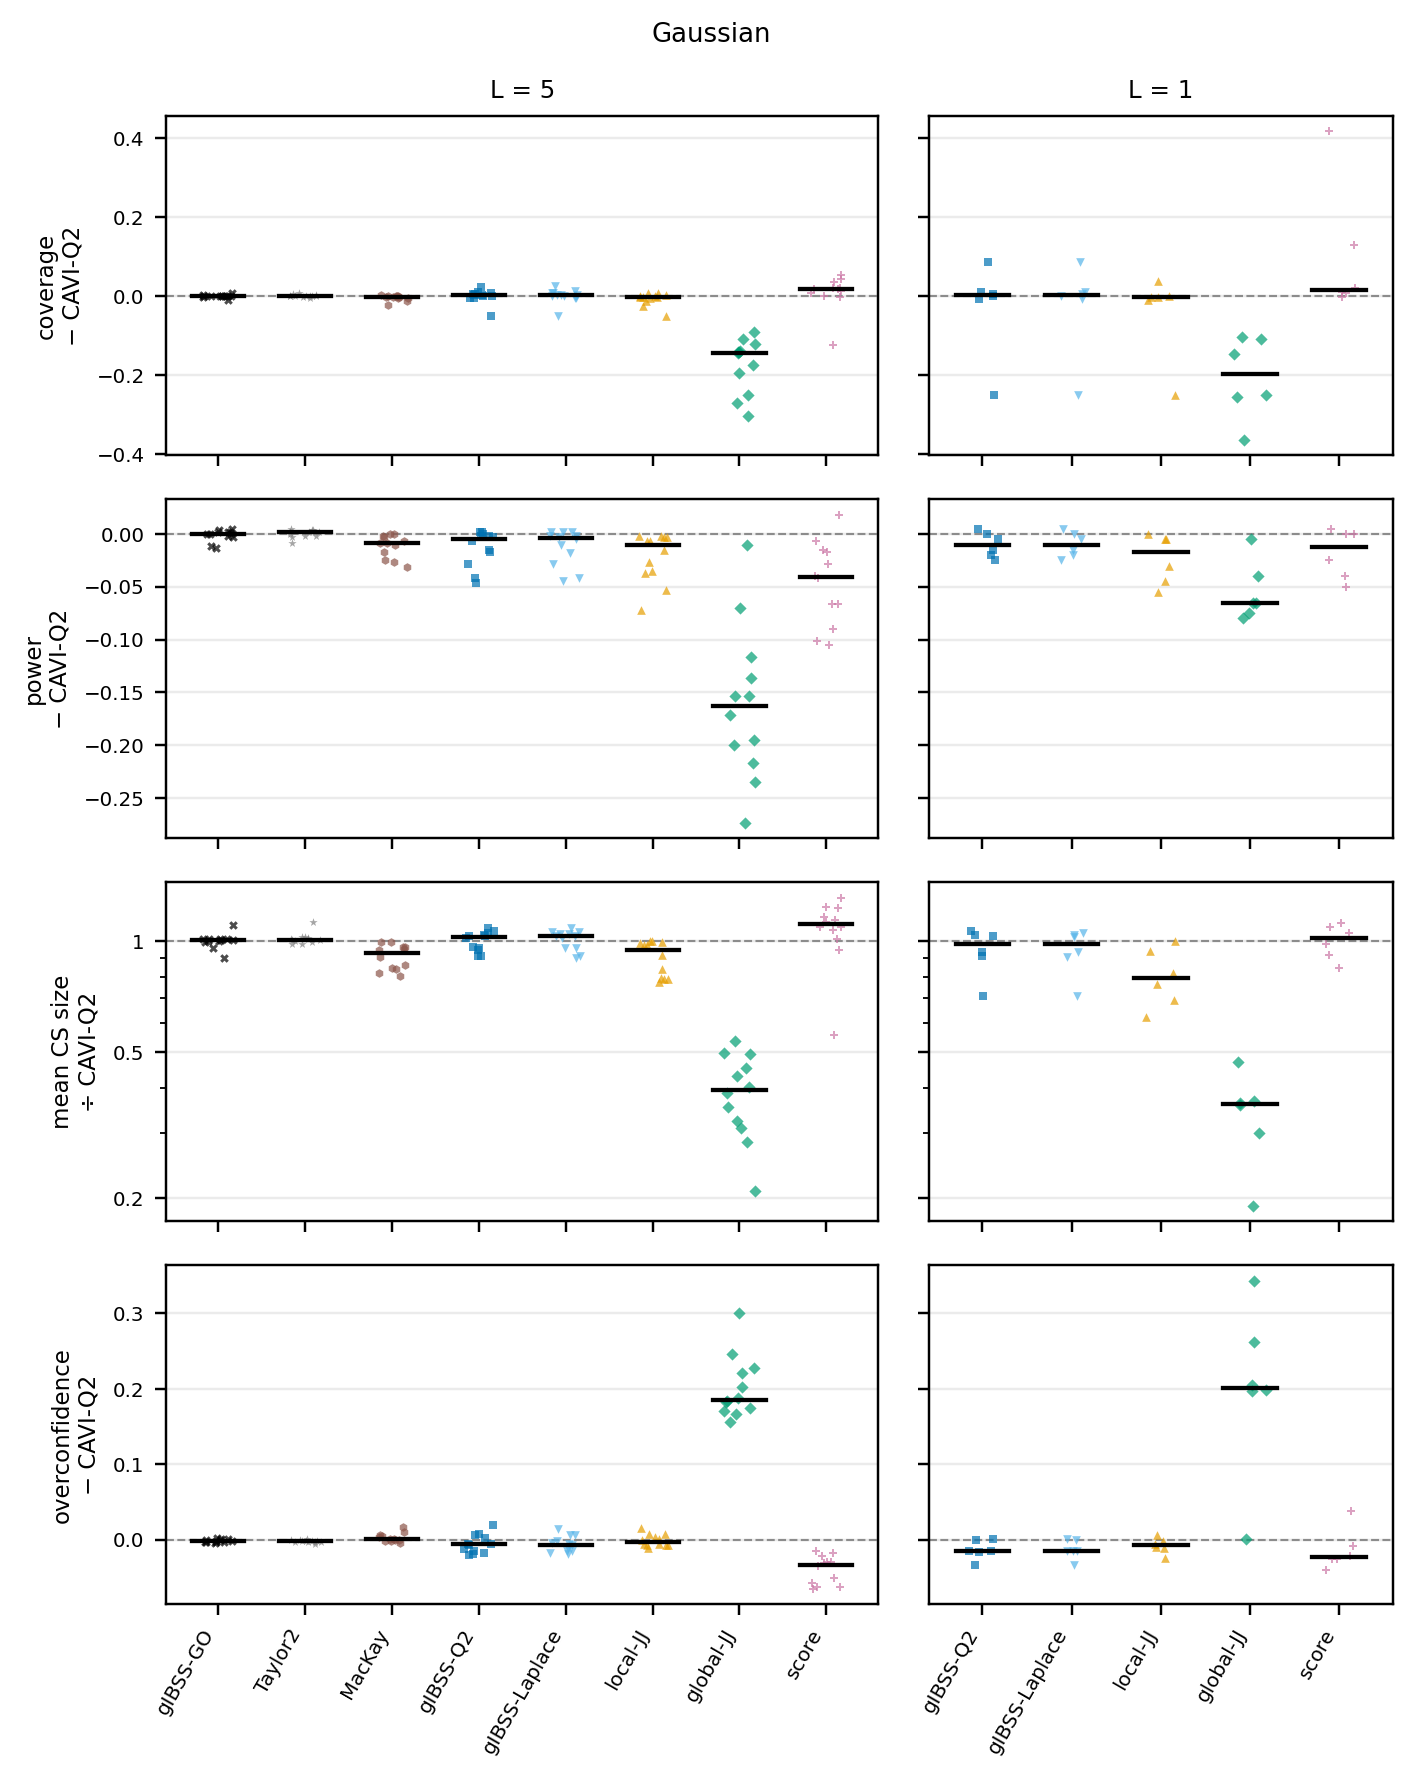
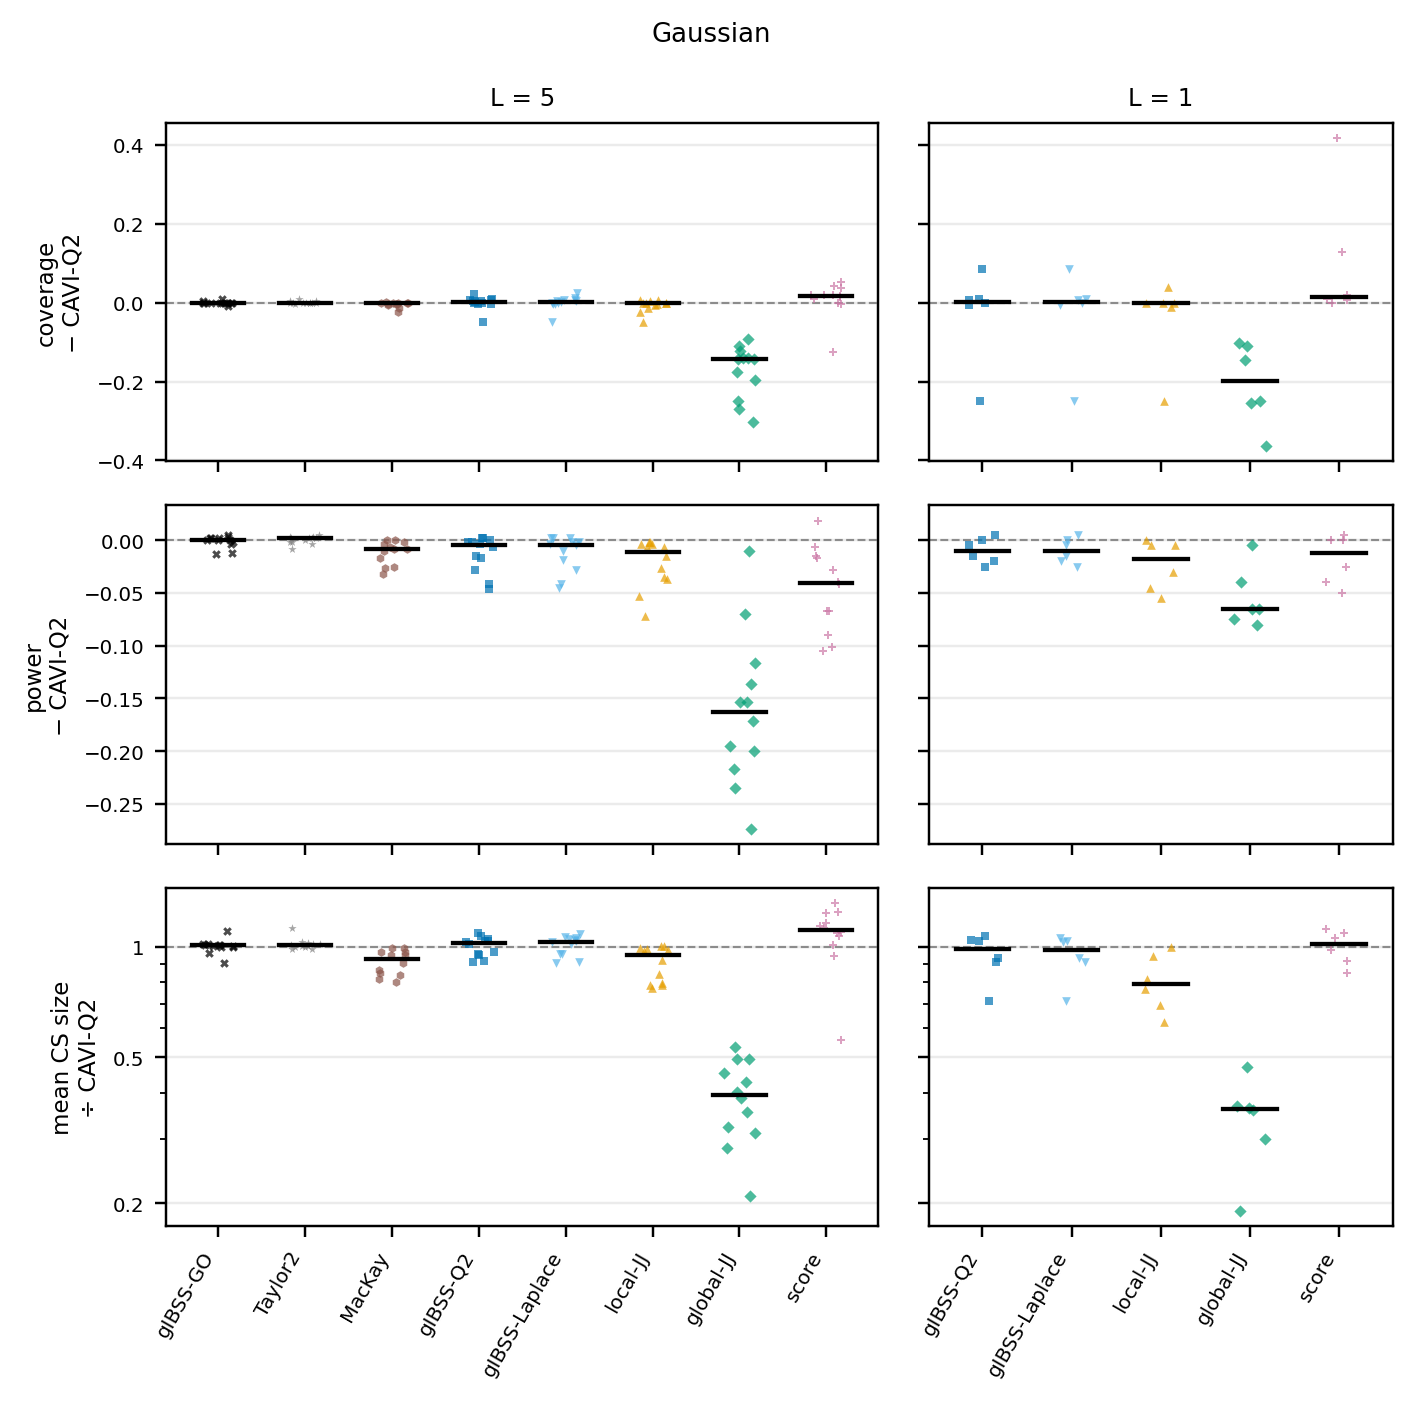
feat(twogroup): truth.qmd - CAVI comparison on CS metrics only
Drop the PIP-based overconfidence row; the per-scenario comparison is CS coverage,
power and size.

diff --git a/twogroup_experiments/analysis/logistic_laplace_simulations/truth.py b/twogroup_experiments/analysis/logistic_laplace_simulations/truth.py
@@ -363,42 +363,28 @@ def _boot(num: np.ndarray, den: np.ndarray | None, n_boot: int = 1000, seed: int
 _SCEN = ["exp", "design", "L"] + [c for c in CELL if c != "null"]
 
 
-def scenario_frame(bins: pl.DataFrame, reps: pl.DataFrame, lo: float = 0.5) -> pl.DataFrame:
-    """One row per (signal scenario, arm): coverage, power and mean size of declared 95% CSs,
-    overconfidence = mean PIP minus share causal among features with PIP >= lo, and each as a
-    difference from CAVI-Q2 in the same scenario (size as a ratio). A scenario is one cell of the
-    grid (design, L, sweep value, T, gap); every arm sees the same simulated replicates."""
-    r = (reps.filter(~pl.col("null")).group_by(_SCEN + ["method"])
-         .agg((pl.col("n_covering").sum() / pl.col("n_declared").sum()).alias("coverage"),
-              (pl.col("n_captured").sum() / pl.col("n_causal").sum()).alias("power"),
-              (pl.col("size_sum").sum() / pl.col("n_declared").sum()).alias("size")))
-    k = int(round(lo * NBIN))
-    mids = (np.arange(NBIN) + 0.5) / NBIN
-    rows = []
-    for key, g in bins.filter(~pl.col("null")).group_by(_SCEN + ["method"]):   # one bins row per batch
-        cnt = np.array(g["counts"].to_list(), dtype=float).sum(0)[k:]
-        cau = np.array(g["causal"].to_list(), dtype=float).sum(0)[k:]
-        n = cnt.sum()
-        rows.append(dict(zip(_SCEN + ["method"], key)) |
-                    {"overconf": float((cnt * mids[k:]).sum() / n - cau.sum() / n) if n else None,
-                     "n_hi": n})
-    df = r.join(pl.DataFrame(rows, infer_schema_length=None), on=_SCEN + ["method"], how="left",
-                nulls_equal=True)
-    df = df.with_columns(pl.col(c).fill_nan(None) for c in ("coverage", "size", "overconf"))
+def scenario_frame(reps: pl.DataFrame) -> pl.DataFrame:
+    """One row per (signal scenario, arm): coverage, power and mean size of declared 95% CSs, and
+    each as a difference from CAVI-Q2 in the same scenario (size as a ratio). A scenario is one
+    cell of the grid (design, L, sweep value, T, gap); every arm sees the same simulated
+    replicates."""
+    df = (reps.filter(~pl.col("null")).group_by(_SCEN + ["method"])
+          .agg((pl.col("n_covering").sum() / pl.col("n_declared").sum()).alias("coverage"),
+               (pl.col("n_captured").sum() / pl.col("n_causal").sum()).alias("power"),
+               (pl.col("size_sum").sum() / pl.col("n_declared").sum()).alias("size"))
+          .with_columns(pl.col(c).fill_nan(None) for c in ("coverage", "size")))
     ref = df.filter(pl.col("method") == "cavi").select(
-        _SCEN + [pl.col(c).alias(f"{c}_cavi") for c in ("coverage", "power", "size", "overconf")])
+        _SCEN + [pl.col(c).alias(f"{c}_cavi") for c in ("coverage", "power", "size")])
     return (df.filter(pl.col("method") != "cavi").join(ref, on=_SCEN, how="inner", nulls_equal=True)
             .with_columns((pl.col("coverage") - pl.col("coverage_cavi")).alias("d_coverage"),
                           (pl.col("power") - pl.col("power_cavi")).alias("d_power"),
-                          (pl.col("size") / pl.col("size_cavi")).alias("r_size"),
-                          (pl.col("overconf") - pl.col("overconf_cavi")).alias("d_overconf")))
+                          (pl.col("size") / pl.col("size_cavi")).alias("r_size")))
 
 
 VS_CAVI = [
     ("d_coverage", "coverage\n− CAVI-Q2", False),
     ("d_power", "power\n− CAVI-Q2", False),
     ("r_size", "mean CS size\n÷ CAVI-Q2", True),
-    ("d_overconf", "overconfidence\n− CAVI-Q2", False),
 ]
 
 
